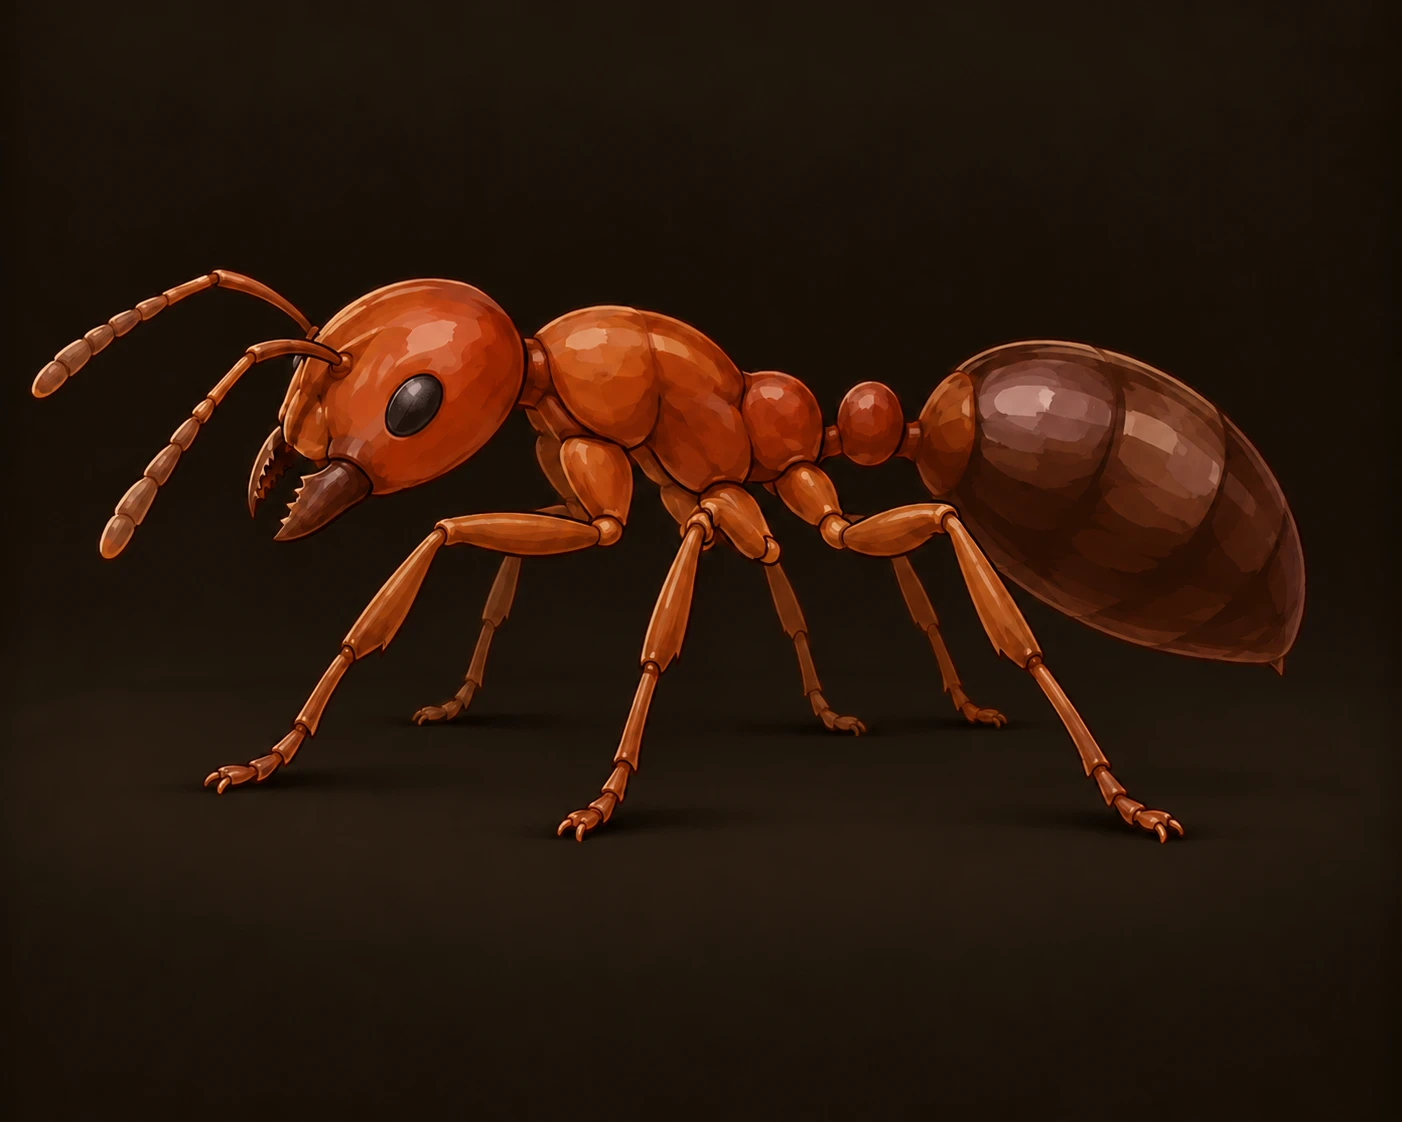
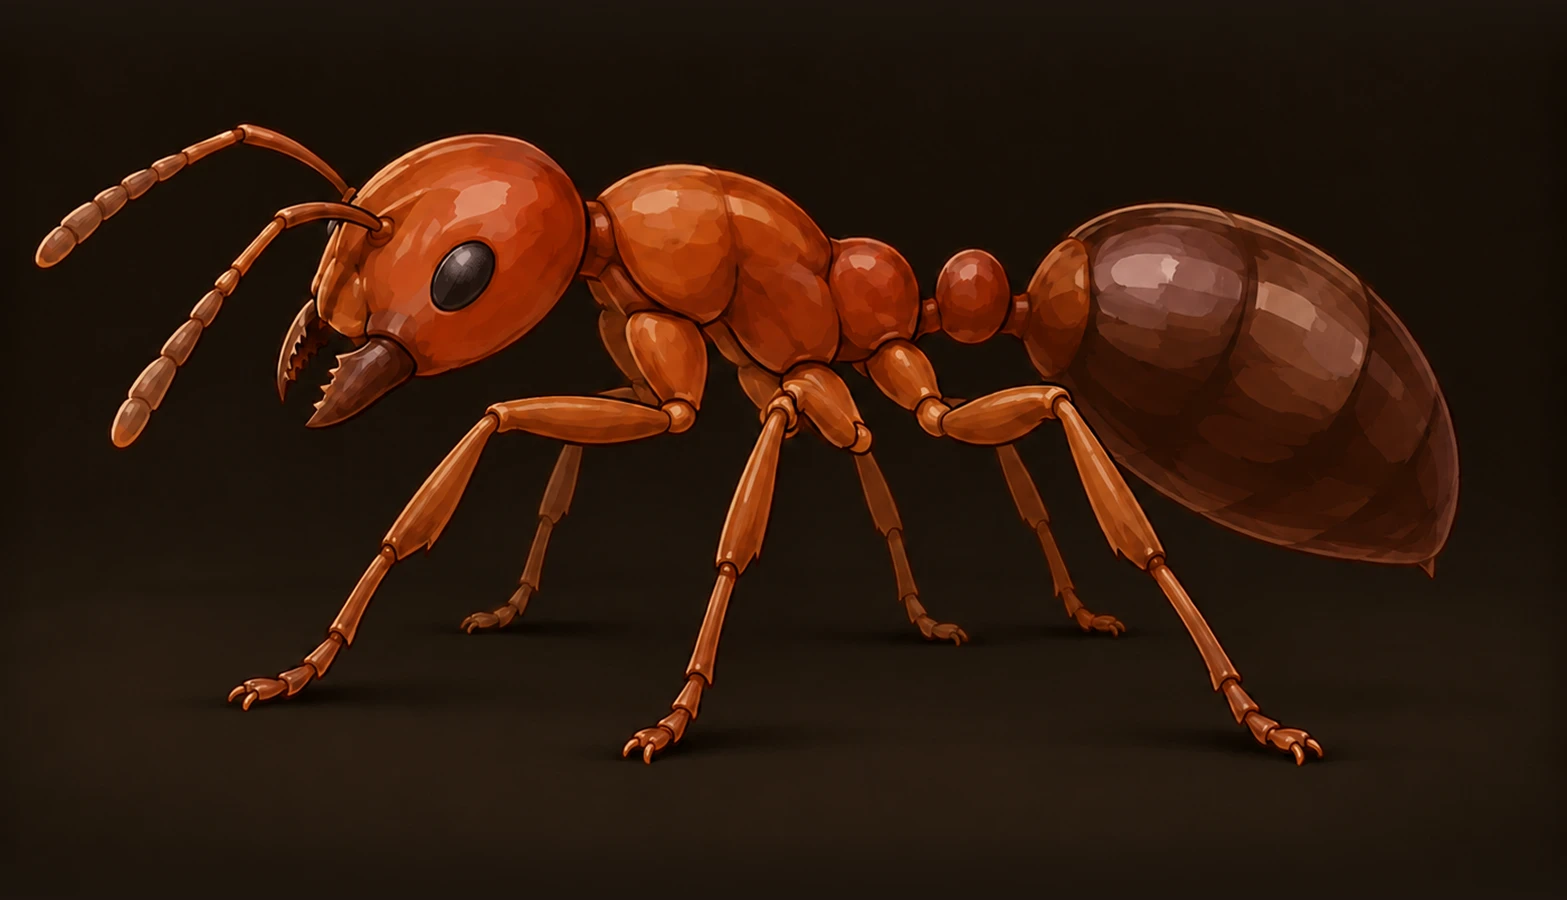
Four more covers, the new 1567x900 shape, and a bleed that is really a bleed
Ghost, Leafcutter, Pharaoh and Fire are in — eight of the nine colonies have a
painting now, and the four new ones are at the ratio the box has moved to.

THE BOX IS 1567x900. The four already in are the old 1254-tall files and are
cropped top and bottom to fit, which is what `object-fit: cover` is for and what
they are composed to survive. The test that held every file to the box's exact
ratio holds the rule that actually matters instead: a file may be TALLER than
the box and must never be WIDER, because a wider one is cropped at the SIDES and
what is at the sides of every one of these is the ant's head and its gaster.

AND THE FULL BLEED WAS LYING. The cover escaped the screen's 16px padding with
negative margins — and `getBoundingClientRect` agreed, 412px wide on a 412px
phone — while the clip that stops the page being dragged sideways ate the
overhang, so it PAINTED 16px short at both ends. Reported as "I still see
margins", and nothing but a pixel could tell: the DOM said full width.

So the padding comes off this screen altogether and goes onto its blocks, which
is what the home screen does for the same reason. The cover is then a plain
100%, with nothing to escape, nothing to clip and nothing to drag. Measured at
360, 412 and 768: the cover spans the glass, the header and the hero keep the
inset they have always had, and the sideways scroll is zero.

Claude-Session: https://claude.ai/code/session_0138fWKTTkJo8ieYpNgZXMdF

Changed region(s): [[0.0, 0.1244, 0.9508, 0.84], [0.276, 0.5289, 0.368, 0.7156], [0.5521, 0.5289, 0.6134, 0.7156]]

diff --git a/src/ui/__tests__/covers.test.ts b/src/ui/__tests__/covers.test.ts
@@ -65,22 +65,38 @@ describe("a colony's cover", () => {
   });
 
   /**
-   * IT IS FULL BLEED, and the number it escapes by has to be the number holding it in.
-   * The screen's own gutter is `--sp4`; a cover that pulled itself out by a different
-   * one would either leave a sliver of page down each side or overhang the screen, and
-   * neither is visible to anybody reading the stylesheet.
+   * IT IS FULL BLEED, and the way it gets there is that THE SCREEN HAS NO GUTTER.
+   * The cover is a plain 100%; the gutter lives on the blocks instead. Pulling it out
+   * with negative margins instead looked identical in the DOM — the box really was the
+   * width of the glass — and painted 16px short at both ends, because the clip that
+   * stops the page being dragged sideways ate the overhang. Nothing but a pixel told
+   * the difference, so the rules that make it work are held here.
    */
-  it("escapes the screen's gutter rather than a number of its own", () => {
+  it("is full bleed because the screen carries no gutter", () => {
     const css = readFileSync(resolve(__dirname, "..", "skin.css"), "utf8");
     const rule = /\.spgcover\s*\{([^}]*)\}/.exec(css)?.[1] ?? "";
-    expect(rule).toMatch(/margin-inline:\s*calc\(-1 \* var\(--sp4\)\)/);
-    expect(rule).toMatch(/width:\s*calc\(100% \+ var\(--sp8\)\)/);
+    expect(rule, "the cover is not a plain full-width block").toMatch(/width:\s*100%/);
+    expect(rule, "the cover escapes with margins again").not.toMatch(/margin-inline/);
     // No card dressing: it is the top of the screen, not a panel on it.
     expect(rule, "the cover is a card again").not.toMatch(/border(-radius)?:/);
+    // And the gutter it used to escape is on the blocks around it.
+    expect(/#antup\s*\{([^}]*)\}/.exec(css)?.[1] ?? "", "the screen kept its padding")
+      .toMatch(/padding-inline:\s*0/);
+    expect(css, "the blocks were not given the gutter back")
+      .toMatch(/#antup \.spgwrap > \*:not\(\.spgcover\)/);
   });
 
-  /** Every file really is that shape, or the box crops a painting nobody meant to crop. */
-  it("ships files at that ratio", () => {
+  /**
+   * A FILE MAY BE TALLER THAN THE BOX AND MUST NEVER BE WIDER.
+   *
+   * `object-fit: cover` never stretches, so the only way a cover can go wrong is WHERE it
+   * crops. A painting taller than the box loses sky off the top and ground off the bottom,
+   * which is what these are composed to survive; one WIDER than the box is cropped at the
+   * SIDES instead, and what is at the sides of every one of them is the ant's head and its
+   * gaster. The ratio moved from 1567x1254 to 1567x900 with the paintings already in, so
+   * this is the rule that actually matters rather than "every file is exactly the box".
+   */
+  it("ships files the box can only crop top and bottom", () => {
     for (const f of files()) {
       const d = readFileSync(resolve(FOLDER, f));
       const tag = d.subarray(12, 16).toString("latin1");
@@ -96,8 +112,8 @@ describe("a colony's cover", () => {
         w = d.readUInt16LE(26) & 0x3fff;
         h = d.readUInt16LE(28) & 0x3fff;
       }
-      expect(w / h, `${f} is ${w}x${h}, which is not the cover ratio`)
-        .toBeCloseTo(COVER_W / COVER_H, 2);
+      expect(w / h, `${f} is ${w}x${h} — wider than the box, so it loses its head`)
+        .toBeLessThanOrEqual(COVER_W / COVER_H + 0.001);
     }
   });
 });

diff --git a/src/ui/skin.css b/src/ui/skin.css
@@ -3853,8 +3853,8 @@ button:not(.playbtn):active,
 
 /* ------------------------------------------------------------------ THE COVER
    One painted ant across the top of the page, at the ratio the paintings are
-   delivered at — 1567 x 1254, written as that pair rather than as a decimal so
-   the box and the file can never disagree and crop somebody's artwork.
+   delivered at — 1567 x 900, written as that pair rather than as a decimal so
+   the box and the file can never disagree about the shape.
 
    The ratio is on the BOX, not on the picture, so a colony that has not been
    painted yet holds exactly the same shape with its head drawn on the plate
@@ -3863,18 +3863,32 @@ button:not(.playbtn):active,
    `object-fit: cover` is belt and braces: the files are already this ratio, and
    a picture delivered at a slightly different one is cropped rather than
    stretched, which is the failure a reader cannot see. */
+/* THIS SCREEN HAS NO GUTTER OF ITS OWN — its BLOCKS do.
+   Every screen is padded 16px and its body is `min(100%, var(--page))` centred
+   (§ ONE CONTENT COLUMN), which is two things holding the content in: the
+   padding, and the column on a screen wider than 360. A cover pulled out by
+   negative margins escaped the first and not the second, and then the clip that
+   stopped the page being dragged sideways ate the overhang as well — so it read
+   as a 16px margin that no rule in the file admits to.
+   So the PADDING comes off this screen and goes onto each block instead. The
+   cover is then simply 100% of the glass, with nothing to escape, nothing to
+   clip and nothing that can be dragged. */
+#antup { padding-inline: 0; }
+#antup .screentop,
+#antup .spgwrap > *:not(.spgcover) {
+  width: min(calc(100% - var(--sp8)), var(--page));
+  margin-inline: auto;
+}
+#antup .screenbody { width: 100%; max-width: none; }
+
 .spgcover {
   position: relative;
-  /* FULL BLEED. The painting is the top of the screen, not a card on it: no gutter,
-     no corner and no outline, so it meets the edge of the phone the way the ground
-     under the board does. `.screen` carries the app's 16px gutter, so the cover
-     escapes by exactly that and is put back by twice it — the same trick the legacy
-     `.tophead` uses, and the reason it is written as the variable rather than as 16:
-     a block that escapes by a different number than the one holding it in overhangs
-     the screen it is meant to fill. */
-  margin-inline: calc(-1 * var(--sp4));
-  width: calc(100% + var(--sp8));
-  aspect-ratio: 1567 / 1254;
+  /* FULL BLEED. The painting is the top of the screen, not a card on it: no
+     gutter, no corner and no outline, so it meets the edge of the glass the way
+     the ground under the board does. It is a plain 100% because the screen above
+     carries no padding for it to escape. */
+  width: 100%;
+  aspect-ratio: 1567 / 900;
   overflow: hidden;
   /* The paintings are delivered on this ground, so the box is it: a colony with no
      cover yet stands on the same colour the painted ones do, and a picture that ever

diff --git a/src/ui/covers.ts b/src/ui/covers.ts
@@ -36,7 +36,7 @@ import type { SpeciesId } from "../engine";
  * a box that disagreed with the file would letterbox or crop somebody's artwork.
  */
 export const COVER_W = 1567;
-export const COVER_H = 1254;
+export const COVER_H = 900;
 
 /** What the build found, keyed by colony. */
 const PAINTED: Partial<Record<SpeciesId, string>> = (() => {
